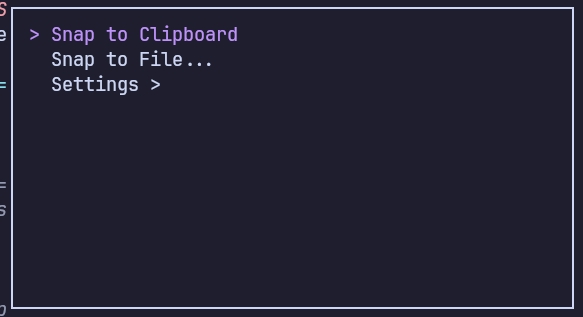
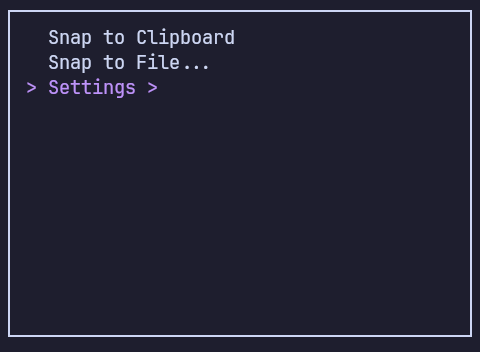
feat: Save 'Snap to File' screenshots to a permanent ~/Pictures gallery with unique timestamps

Changed region(s): [[0.0, 0.0, 1.0, 0.9937]]

diff --git a/README.md b/README.md
@@ -68,7 +68,7 @@ The `:codesnap-menu` is the main interface for CodeSnap. From here, you can inst
 
 **Actions:**
 - **Snap to Clipboard**: Captures the selection and copies it to your clipboard.
-- **Snap to File...**: Captures the selection and saves it to `/tmp/codesnap.png`.
+- **Snap to File...**: Captures the selection and saves it to `~/Pictures/codesnap-$(date +%s).png`.
 - **Settings >**: Opens the configuration submenu where you can visually tweak:
   - **Themes** and **Backgrounds** (includes Transparent option!)
   - **Shadow Blur**
